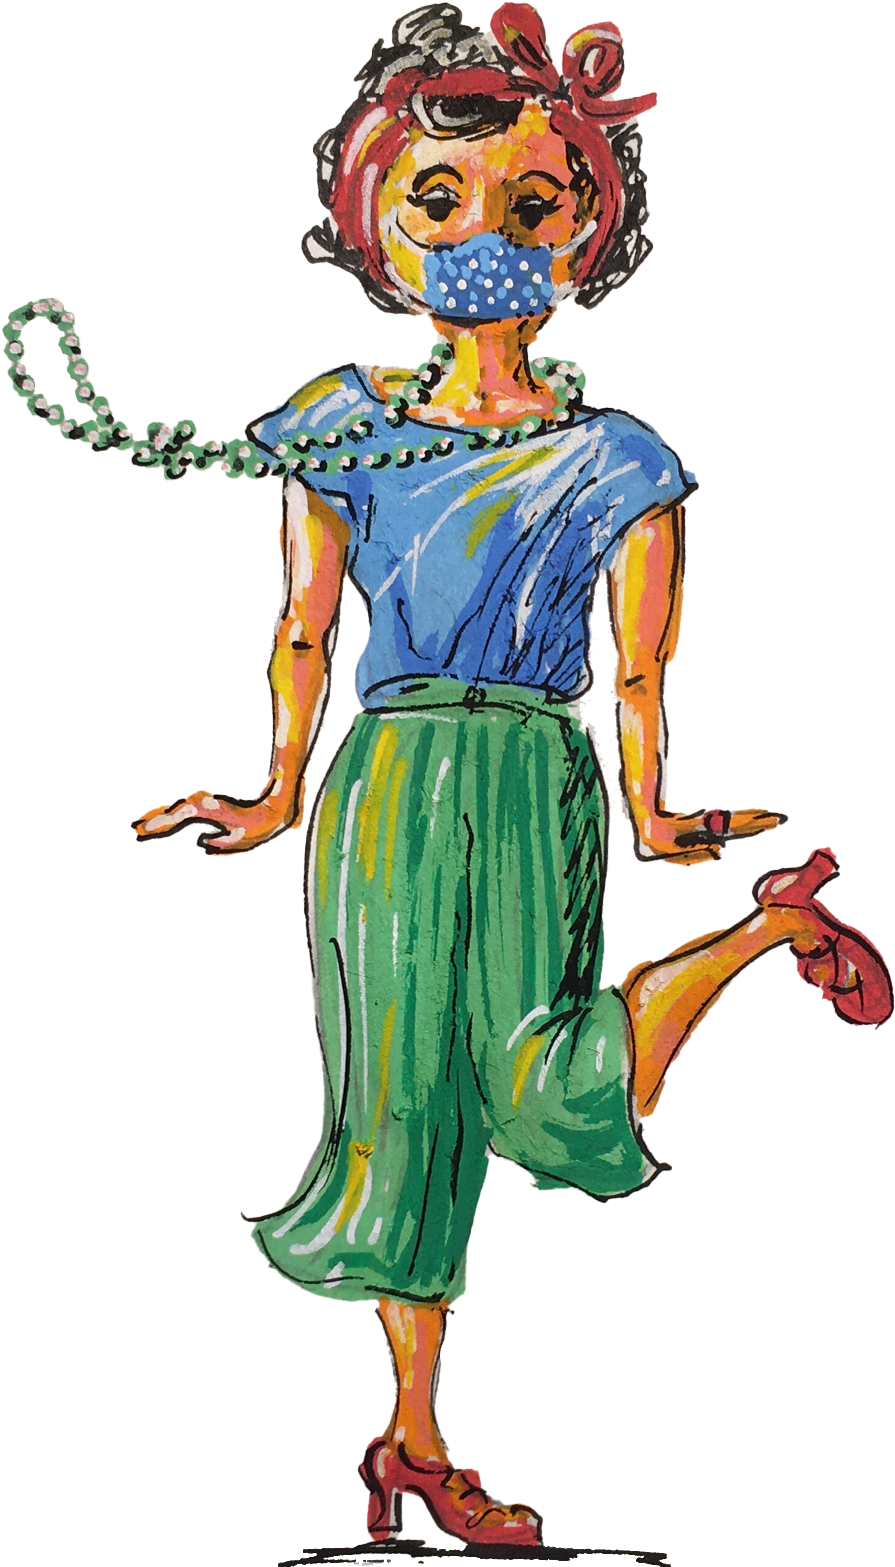
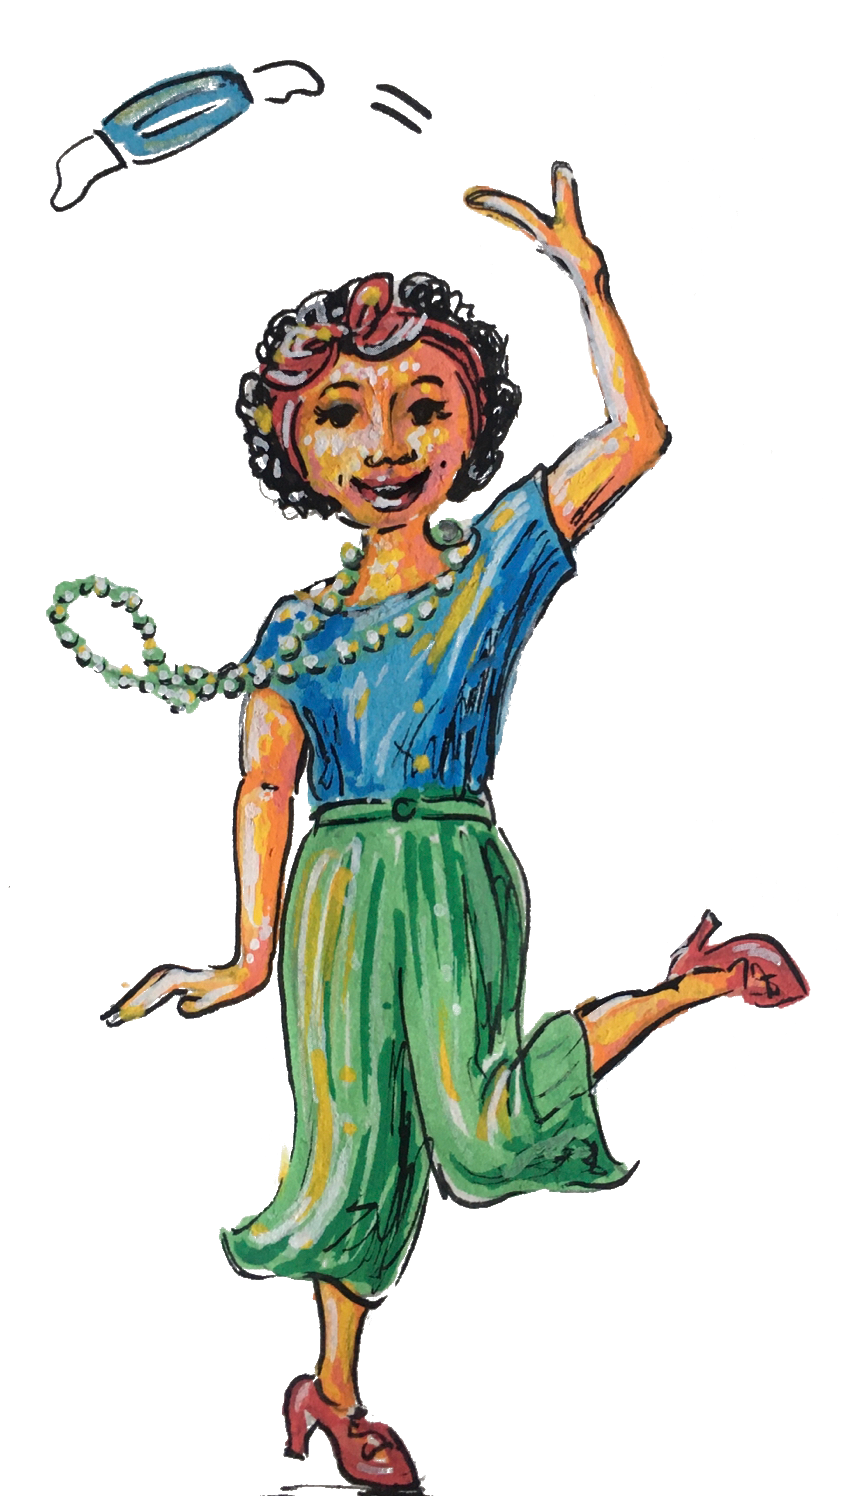
update Schutzkonzept and buffet rules

diff --git a/index.html b/index.html
@@ -319,9 +319,13 @@
           <div class="col-md-6 p-3">
 
             <h4>Buffet</h4>
+            <p class="lead">Wir die Getränke- ihr das Essen. njammm Buffet am Mini-Solstice</p>
 
-            <p>Am frühen Abend treffen wir uns für ein gemeinsames Buffet. Das heisst: alle bringen etwas (vielleicht selbstgemachtes :)) mit.
-              Die Teilnahme ist gratis und offen. Du darfst gerne Leute mitbringen, die nicht am Workshop teilnehmen, solange jeder etwas mitbringt.</p>
+            <p>Am frühen Abend, nach den Solo Jazz Kursen um 18:30, treffen wir uns für ein gemeinsames Buffet. Das heisst: alle bringen etwas (vielleicht selbstgemachtes <i class="far fa-grin"></i>) mit.
+
+            </p>
+            <p> Die Teilnahme ist gratis und offen. Du darfst gerne Leute mitbringen, die nicht am Workshop teilnehmen, solange jeder etwas mitbringt.</p>
+
 
 
             <p class="font-weight-bold">Woran Du denken solltest</p>
@@ -329,7 +333,11 @@
               <li>Wir wollen unseren Abfall reduzieren und möglichst umweltfreundlich sein. Deshalb wollen wir auf Einweg-Plastik und Abfall verzichten.
                 Bitte bringt einen eigenen Becher und eine Trinkflasche mit. Wenn Du etwas zum Buffet mitbringst, finden wir es super, wenn Du Tupperwares, Cakeformen o.ä., aber keine Folien oder Einweg-Plastik verwendest.
               </li>
-              <li>Wir werden vegane, vegetarische und glutenfreie Speisen trennen und markieren.</li>
+              <li>Wir werden vegane, vegetarische und glutenfreie Speisen trennen und markieren. Bitte schon beim Bringen anschreiben falls unklar.</li>
+              <li>Gerne Schöpfkellen wenn nötig selber mitbringen.</li>
+              <li>Wenn du schauen willst, was schon gebracht wird, dann schau auf dieser <a href="https://docs.google.com/spreadsheets/d/1HUkh-ItlCZG0Vp3l74vzvoE1h115z7oGdBYpM3cphF8/edit?usp=sharing" class="link">Liste</a>. Eintragen ist
+                freiwillig.Überraschungen sind auch gut.</li>
+              <li>Unsere charmante Buffet-chefin Sarah nimmt eure feinen Gaben entgegen und weiss wo der Kühlschrank steht. Um 18:15 werden wir das Buffet aufbauen.</li>
             </ul>
           </div>
         </div>
@@ -347,11 +355,11 @@
 
       <h3>Stay Safe</h3>
       <h4>Schutzkonzept Solstice Mini-edition 2021</h4>
-      <p class="lead">
+      <p class="">
         Wir halten wir uns an die Vorschriften des BAG, damit sich jede und jeder wohl und sicher fühlt und wir das Tanzen geniessen können!
       </p>
-      <p class="font-weight-bold lead">
-        Wir klären derzeit ab, welche Lockerungen am Wochenende gelten. Spätestens am Samstag Abend werden wir die geltenden Regeln kommunizieren. Wir erheben die Kontaktdaten aller Teilnehmenden und Gäste. Ein Zertifikat werden wir nicht verlangen.
+      <p class="lead">
+        <span class="font-weight-bold ">NEU ab 26.6.21</span> : es besteht Keine Maskenpficht mehr! Auch auf den Abstand muss man nicht mehr achten. Teilnehmerzahl ist unbeschränkt.
       </p>
 
       <div class="row p-md-3">
@@ -359,17 +367,25 @@
 
 
           <ul>
-            <li><span class="font-weight-bold">Solo tanzen</span>, kein Paartanz, kein Körperkontakt</li>
-            <li><span class="font-weight-bold">Abstand</span> zu den anderen TänzerInnen auch während dem Kurs einhalten</li>
-            <li><span class="font-weight-bold">Grosser Raum</span> Die luftige Aula im Progr bietet genügend Platz und kann gut gelüftet werden</li>
-            <li><span class="font-weight-bold">Maskenpficht</span> auch während dem Tanzen</li>
-            <li><span class="font-weight-bold">Begrenzte Teilnehmerzahl</span> (je nach Bestimmung des Bundesrats)</li>
+            <!-- <li><span class="font-weight-bold">Solo tanzen</span>, kein Paartanz, kein Körperkontakt</li> -->
+            <!-- <li><span class="font-weight-bold">Abstand</span> zu den anderen TänzerInnen auch während dem Kurs einhalten</li> -->
+            <li><span class="font-weight-bold">Keine Maskenpficht</span> während <span class="font-weight-bold">dem Tanzen</span></li>
+            <li><span class="font-weight-bold">Maskenpficht</span> beim Flohmi und Buffet</li>
+            <li>Essen im <span class="font-weight-bold">Sitzen</span> bitte</li>
+            <li><span class="font-weight-bold">Selbsttest</span> vor der Teilnahme empfohlen</li>
             <li><span class="font-weight-bold">Präsenzliste</span> wird geführt fürs Contact Tracing</li>
             <li><span class="font-weight-bold">Händewaschen</span> Seife und Desinfektionsmittel steht zur Verfügung</li>
+            <li><span class="font-weight-bold">Grosser Raum</span> Die luftige Aula im Progr bietet genügend Platz und kann gut gelüftet werden</li>
+            <!-- <li><span class="font-weight-bold">Maskenpficht</span> auch während dem Tanzen</li> -->
+            <!-- <li><span class="font-weight-bold">Begrenzte Teilnehmerzahl</span> (je nach Bestimmung des Bundesrats)</li> -->
+
+
             <li><span class="font-weight-bold">Personen mit Krankheitssymptomen</span> wie Husten, Fieber, Atembeschwerden, Gelenkschmerzen oder Verlust des Geruchs- und
               Geschmackssinns <span class="font-weight-bold">bitten wir zuhause zu bleiben</span>.
               Das gleiche gilt für Personen, die keine Symptome haben, aber im gleichen Haushalt wohnen mit einer Person, die Symptome hat</li>
-            <li><span class="font-weight-bold">Selbsttest</span> vor der Teilnahme empfohlen</li>
+
+            <li>Wir verlangen <span class="font-weight-bold">kein Covid-Zertifikat</span>.
+            </li>
 
           </ul>
 
